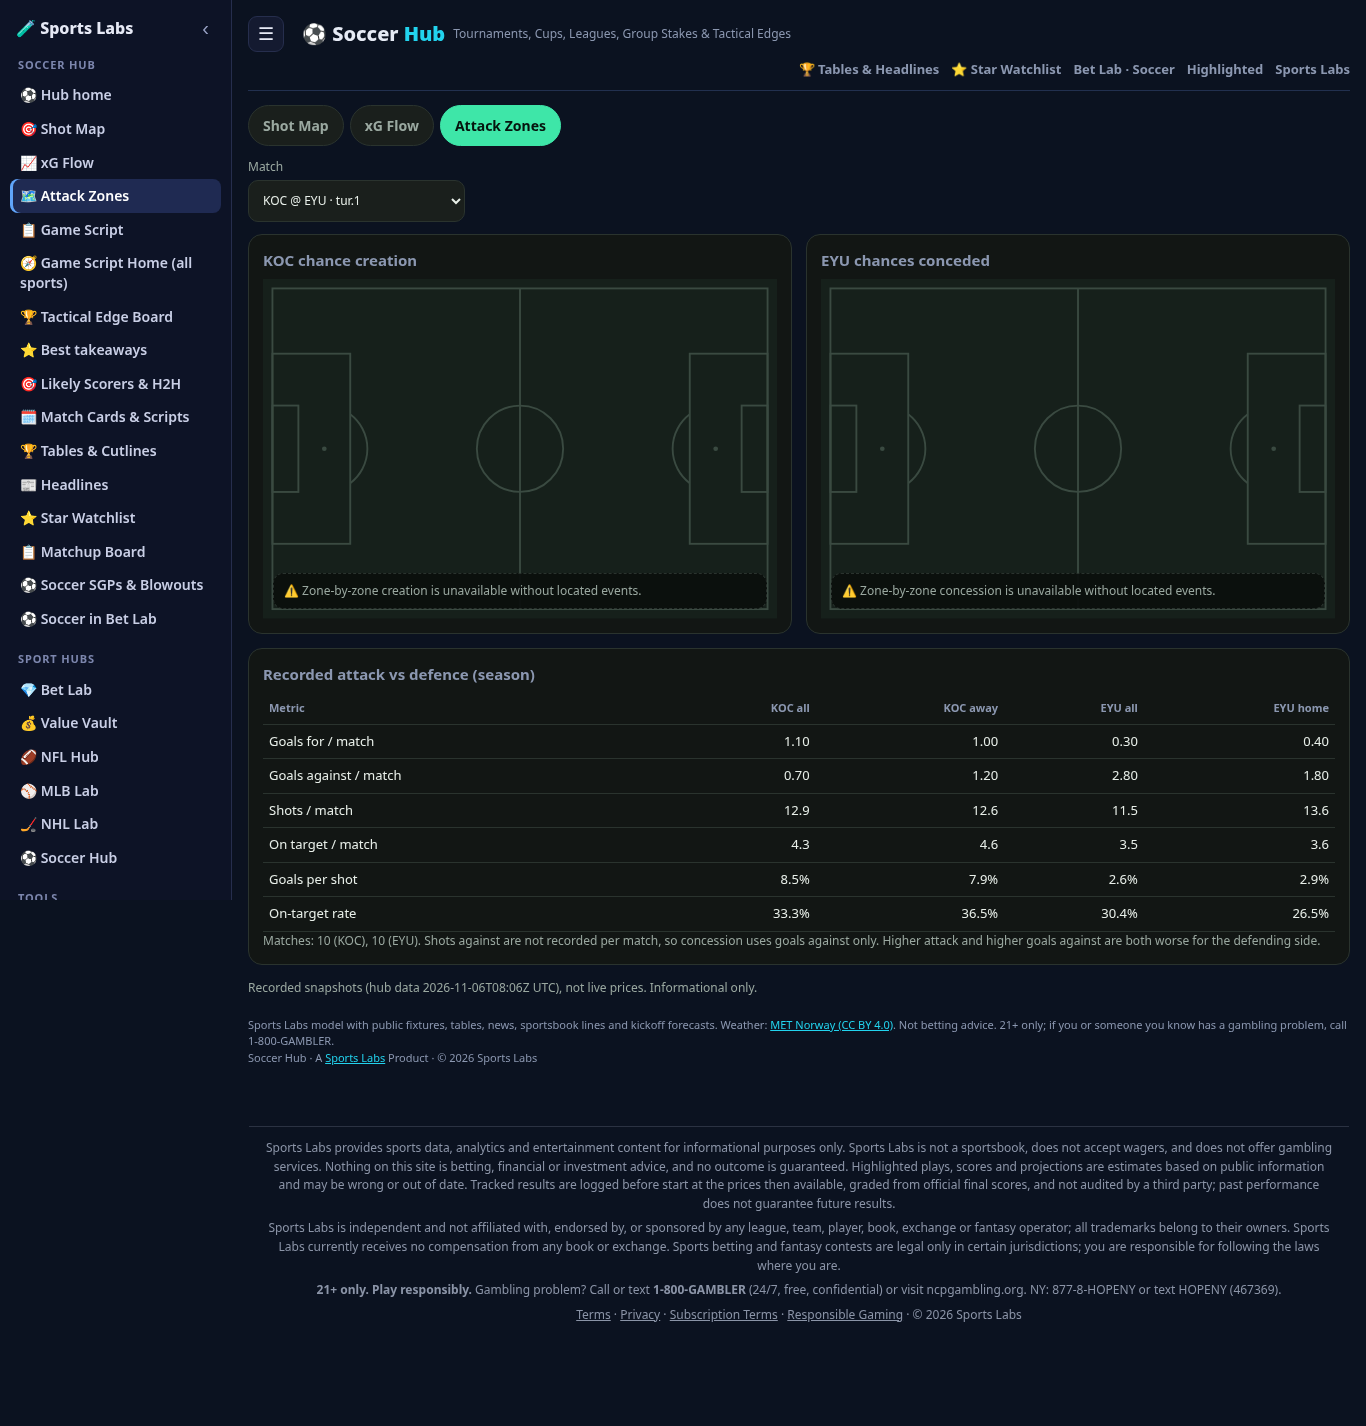
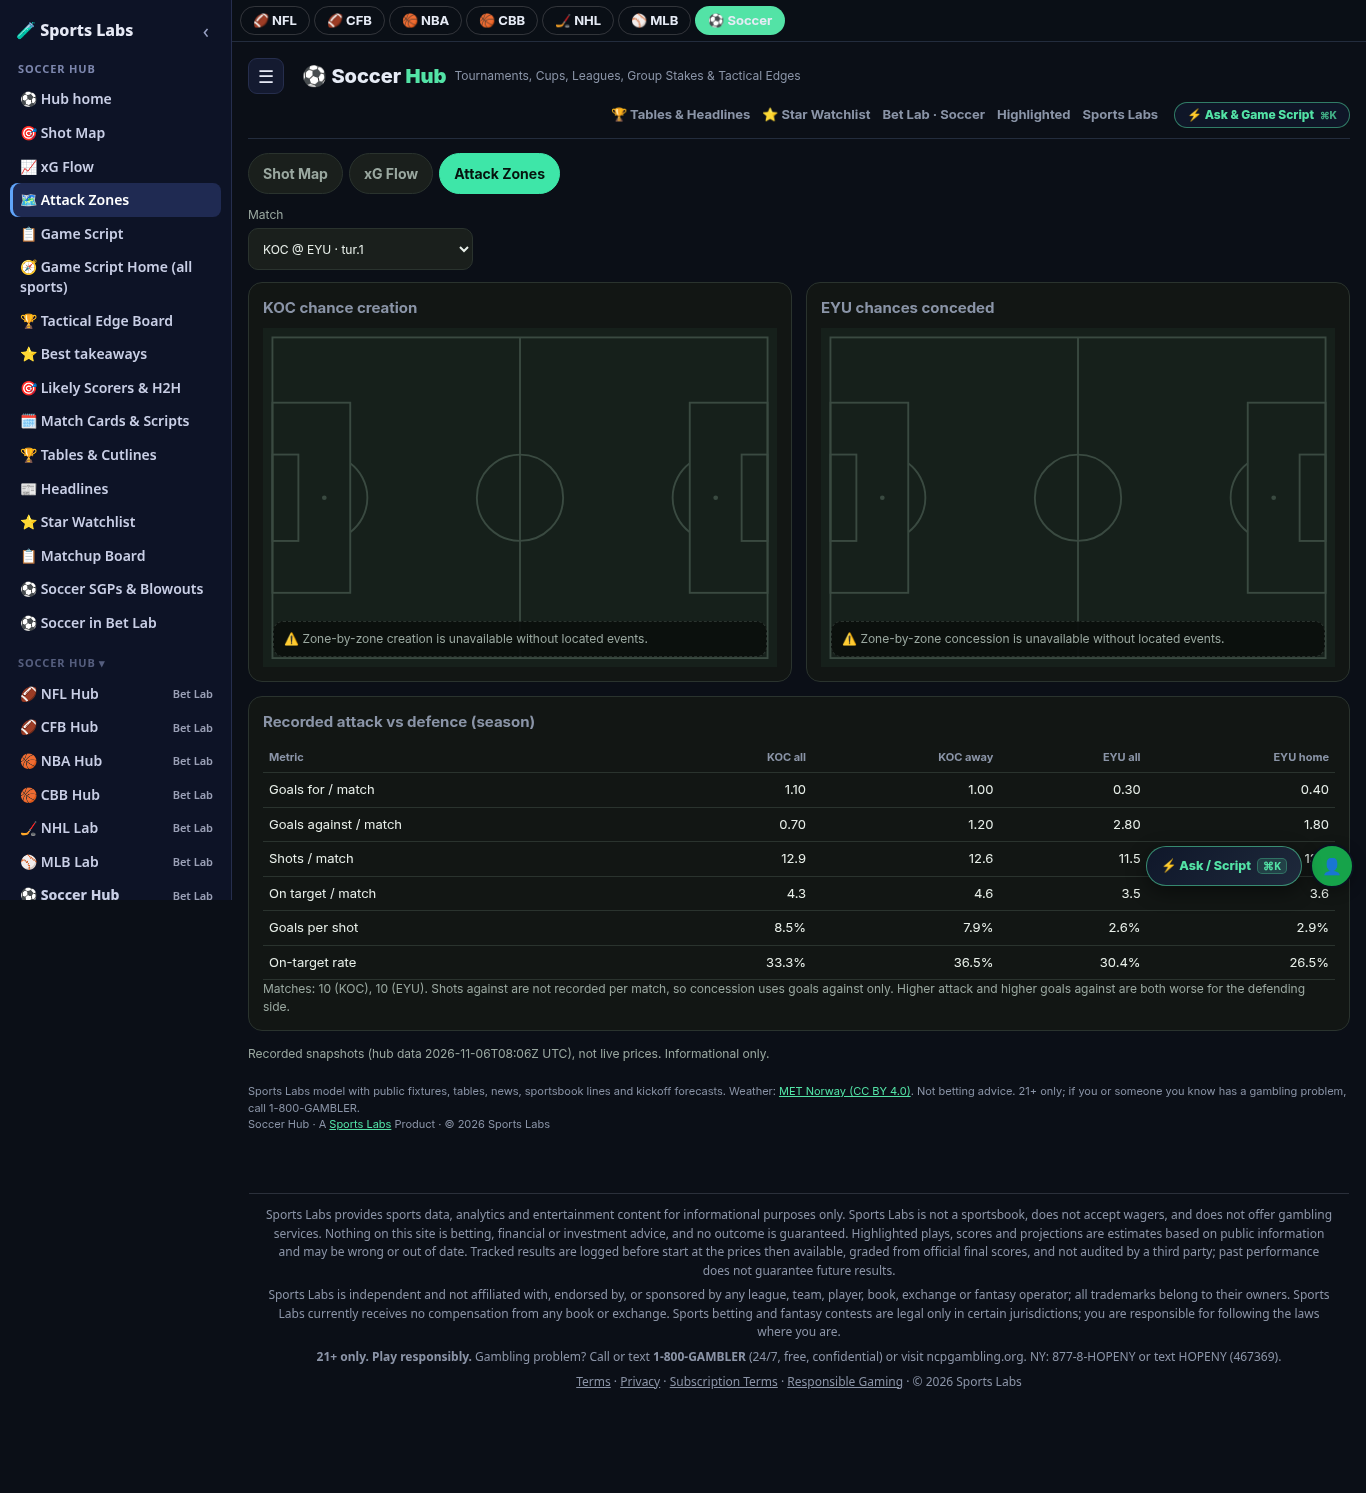
Restrict Soccer visual data reads to fixed hub paths

diff --git a/soccer-viz.js b/soccer-viz.js
@@ -6,7 +6,8 @@
 const VIEWS={'viz-shotmap':'Shot Map','viz-xgflow':'xG Flow','viz-zones':'Attack Zones'};
 const E=s=>String(s??'').replace(/[&<>"']/g,c=>({'&':'&amp;','<':'&lt;','>':'&gt;','"':'&quot;',"'":'&#39;'}[c]));
 const F=(v,d=2)=>v==null||!isFinite(v)?'–':(+v).toFixed(d);const P=v=>v==null||!isFinite(v)?'–':(v*100).toFixed(1)+'%';
-const J=u=>fetch(u).then(r=>r.ok?r.json():null).catch(()=>null);
+const SAFE=/^(?:hub_profiles|recaps\/index|recaps\/\d{4}-\d{2}-\d{2}|[a-z]{2,4}\.[a-z0-9_.]{1,24})$/;
+const J=k=>SAFE.test(k)?fetch(`./data/${k}.json`).then(r=>r.ok?r.json():null).catch(()=>null):Promise.resolve(null);
 let PR=null,GAMES=null,RECAPS=null,root=null;const st={team:'',game:'',win:'L10',side:'home',rgame:''};
 const CSS=`<style id="svcss">body.viz-on .w>*:not(header):not(#viz-root):not(footer):not(#sl-modal-root){display:none!important}
 #viz-root{--vb:#121614;--vp:#1a1f1c;--vl:#2a332e;--vm:#3ee6a8;--vt:#e8efe9;--vs:#9aa8a0;color:var(--vt)}
@@ -36,9 +37,9 @@ function agg(L){const n=L.length,s=k=>L.reduce((a,x)=>a+(typeof x[k]==='number'?
  const sh=s('sh'),g=s('gf');return{n,gf:g/n,ga:s('ga')/n,sh:sh/n,sot:s('sot')/n,conv:sh?g/sh:null,acc:sh?s('sot')/sh:null}}
 const imp=o=>typeof o!=='number'||!isFinite(o)||Math.abs(o)<100?null:o>0?100/(o+100):-o/(-o+100);
 async function load(){if(PR)return;const lg=(window.HUB&&HUB.leagues||[]).map(l=>l[0]).filter(k=>k!=='all');
- const [pr,idx,...ls]=await Promise.all([J('data/hub_profiles.json'),J('data/recaps/index.json'),...lg.map(k=>J('data/'+k+'.json'))]);PR=pr||{teams:{}};
+ const [pr,idx,...ls]=await Promise.all([J('hub_profiles'),J('recaps/index'),...lg.map(k=>J(k))]);PR=pr||{teams:{}};
  const now=Date.now()-3*36e5;GAMES=ls.flatMap((d,i)=>((d&&d.games)||[]).map(g=>Object.assign({_lg:lg[i]},g))).filter(g=>g.state==='pre'&&Date.parse(g.date)>=now).sort((a,b)=>a.date<b.date?-1:1);
- const days=((idx&&idx.days)||[]).slice(-5).reverse();const R=await Promise.all(days.map(d=>J('data/recaps/'+d+'.json')));
+ const days=((idx&&idx.days)||[]).slice(-5).reverse();const R=await Promise.all(days.map(d=>J('recaps/'+d)));
  RECAPS=R.flatMap(r=>((r&&r.games)||[]).map(g=>Object.assign({_day:r.day},g))).filter(g=>g.status==='FT'||/FT|AET|Pen/i.test(g.status||''))}
 const ctlGame=()=>`<label>Match<select data-k="game">${GAMES.map(g=>`<option value="${E(g.id)}"${g.id===st.game?' selected':''}>${E(g.away.abbr+' @ '+g.home.abbr+' · '+(g._lg||''))}</option>`).join('')}</select></label>`;
 const seg=(k,opts)=>`<div class="vz-seg" role="group" aria-label="${E(k)}">${opts.map(([v,l])=>`<button type="button" data-k="${k}" data-v="${E(v)}" aria-pressed="${st[k]===v}">${E(l)}</button>`).join('')}</div>`;
